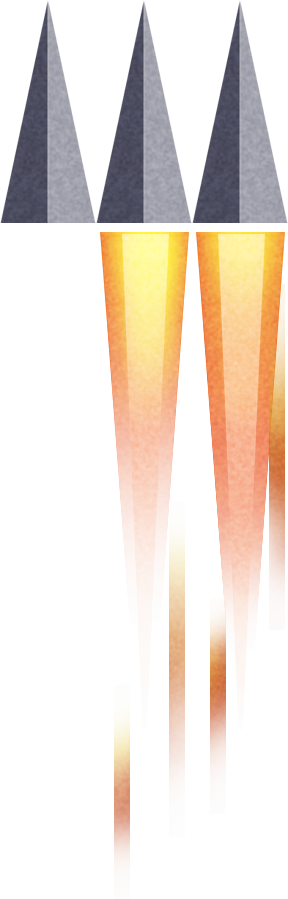
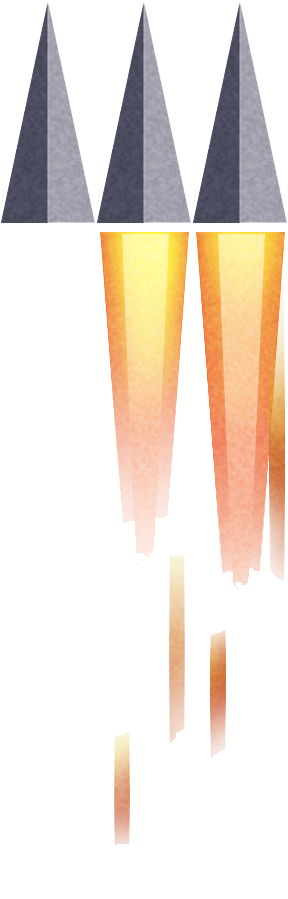
Updated SpriteDraw with FrameCountUpdate and fixed rocket-sprite with transparency

diff --git a/source/GameObjectFactory.cpp b/source/GameObjectFactory.cpp
@@ -38,14 +38,17 @@ GameObject* GameObjectFactory::CreateMissile(GameObject* pOwner, IPosition* pPos
 {
 	// TODO: Make it possible to change component values / change the whole factory
 	GameObject* pMissile = new GameObject(std::string("missile"));
-    BoxCollision* pCollisision = new BoxCollision(50, 50);
+    BoxCollision* pCollisision = new BoxCollision(96, 120);
     
     pCollisision->m_bPhysicsApplyable = false;
     
 	pMissile->SetComponent(new HealthMissile(1000, pOwner));
 	pMissile->SetComponent(new PixelPosition(pPosition->GetPosition(), sf::Vector2f(160.f, 320.f)));
 	pMissile->SetComponent(new LinearMovement(pPosition->GetRotation(),300.f,1,ShipSpeed,true));
-	pMissile->SetComponent(new SpriteDrawing(std::string("assets/rocket.png"),sf::Vector2f(30,60)));
+    SpriteDrawing* pSpriteComponent = new SpriteDrawing(std::string("assets/lilee/rakete_player.png"),sf::Vector2f(30,60));
+    pSpriteComponent->SetTextureArea(sf::FloatRect(96.f, 0.f, 96.f, 899.f));
+    pSpriteComponent->SetTextureArea(sf::FloatRect(192.f, 0.f, 96.f, 899.f));
+	pMissile->SetComponent(pSpriteComponent);
     pMissile->SetComponent(pCollisision);
     
 	return pMissile;

diff --git a/source/SpriteDrawing.cpp b/source/SpriteDrawing.cpp
@@ -11,6 +11,8 @@ SpriteDrawing::SpriteDrawing(std::string strRessourcePath)
 : m_strResPath(strRessourcePath)
 , m_ScaleToSize(sf::Vector2f(0.f, 0.f))
 , m_iTextureRectsCount(0)
+, m_iTextureFrameUpdateCount(50)
+, m_iCurrentFrameCount(0)
 {
     m_pTexture = TextureFactory::GetInstance().GetTexture(strRessourcePath);
 	m_pSprite = new sf::Sprite(*m_pTexture);
@@ -52,8 +54,9 @@ void SpriteDrawing::Update()
 	}
     
     int iTextureAreasSize = m_TextureRects.size();
-    if(iTextureAreasSize > 1)
+    if(iTextureAreasSize > 1 && m_iCurrentFrameCount++ >= m_iTextureFrameUpdateCount)
     {
+        m_iCurrentFrameCount = 0;
         m_iTextureRectsCount++;
         if(m_iTextureRectsCount >= iTextureAreasSize)
         {

diff --git a/include/SpriteDrawing.h b/include/SpriteDrawing.h
@@ -28,4 +28,6 @@ protected:
     sf::Vector2f m_ScaleToSize;
     std::vector<sf::IntRect> m_TextureRects;
     int m_iTextureRectsCount;
+    int m_iTextureFrameUpdateCount;
+    int m_iCurrentFrameCount;
 };
